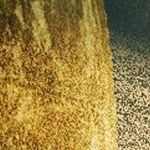
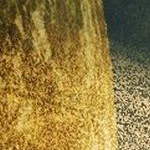
WIP

diff --git a/generate.go b/generate.go
@@ -12,7 +12,7 @@ func main() {
 		fmt.Printf("could not remove\n")
 		return
 	}
-	cmd = exec.Command("ffmpeg", "-i", "wallpaper2.png", "-vf", "crop=150:150:160:240", "0_0.png")
+	cmd = exec.Command("ffmpeg", "-i", "wallpaper2.png", "-vf", "crop=150:150:160:230", "0_0.png")
 	var stderr bytes.Buffer
 	cmd.Stderr = &stderr
 	err := cmd.Run()
